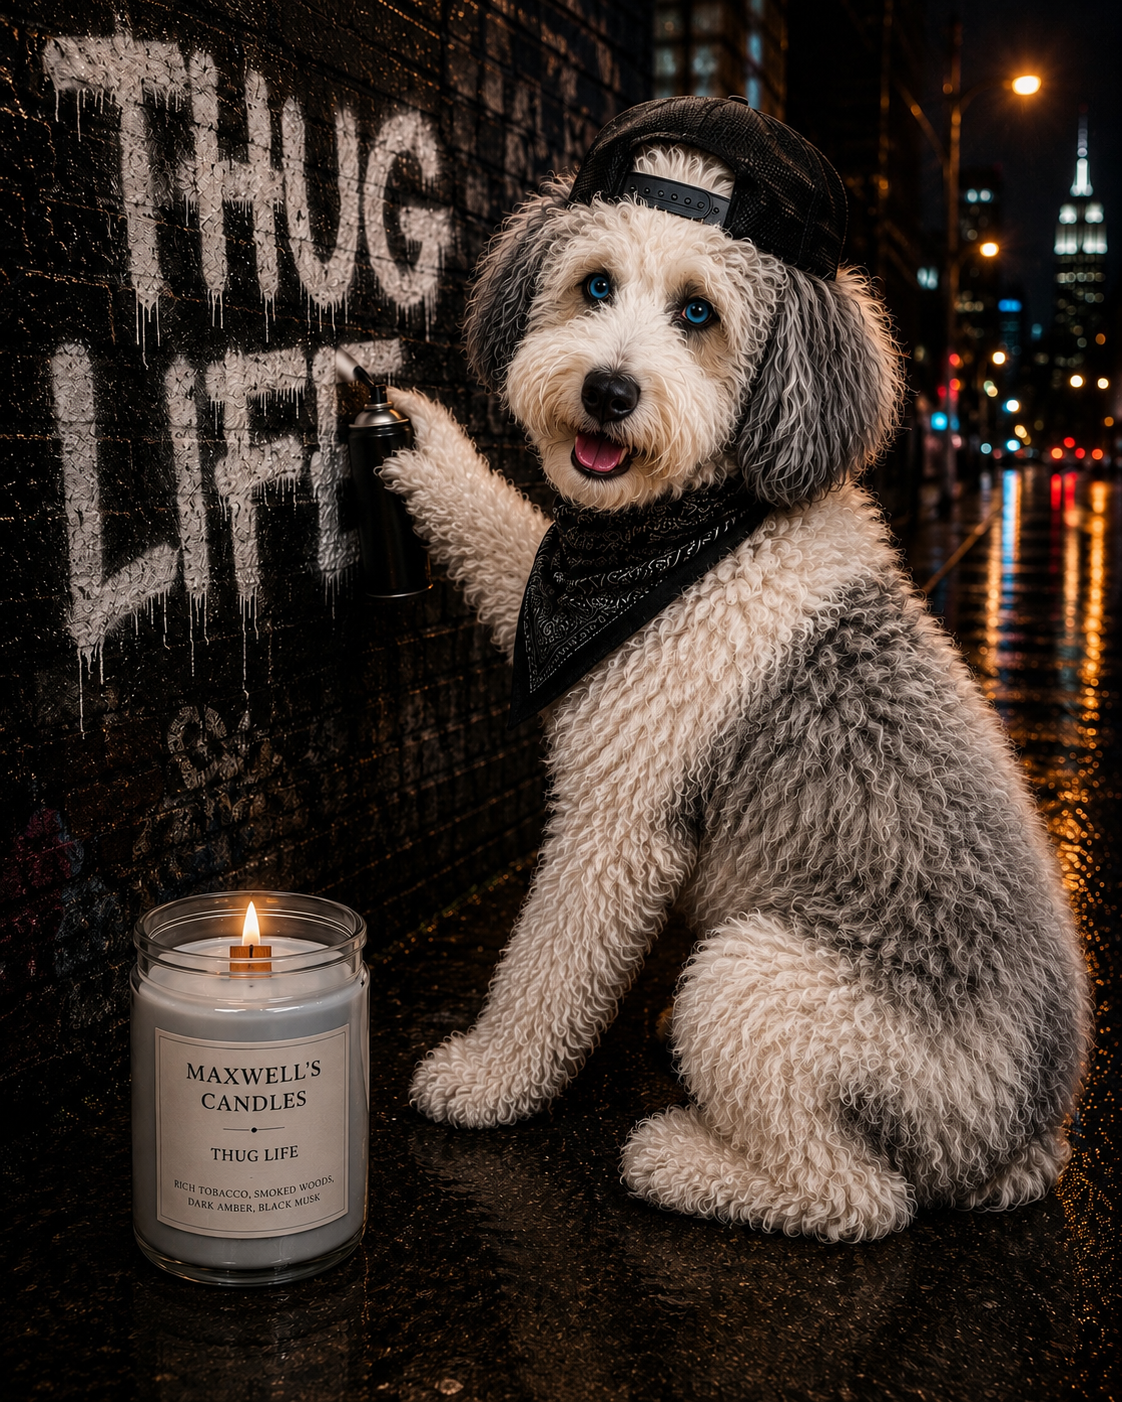
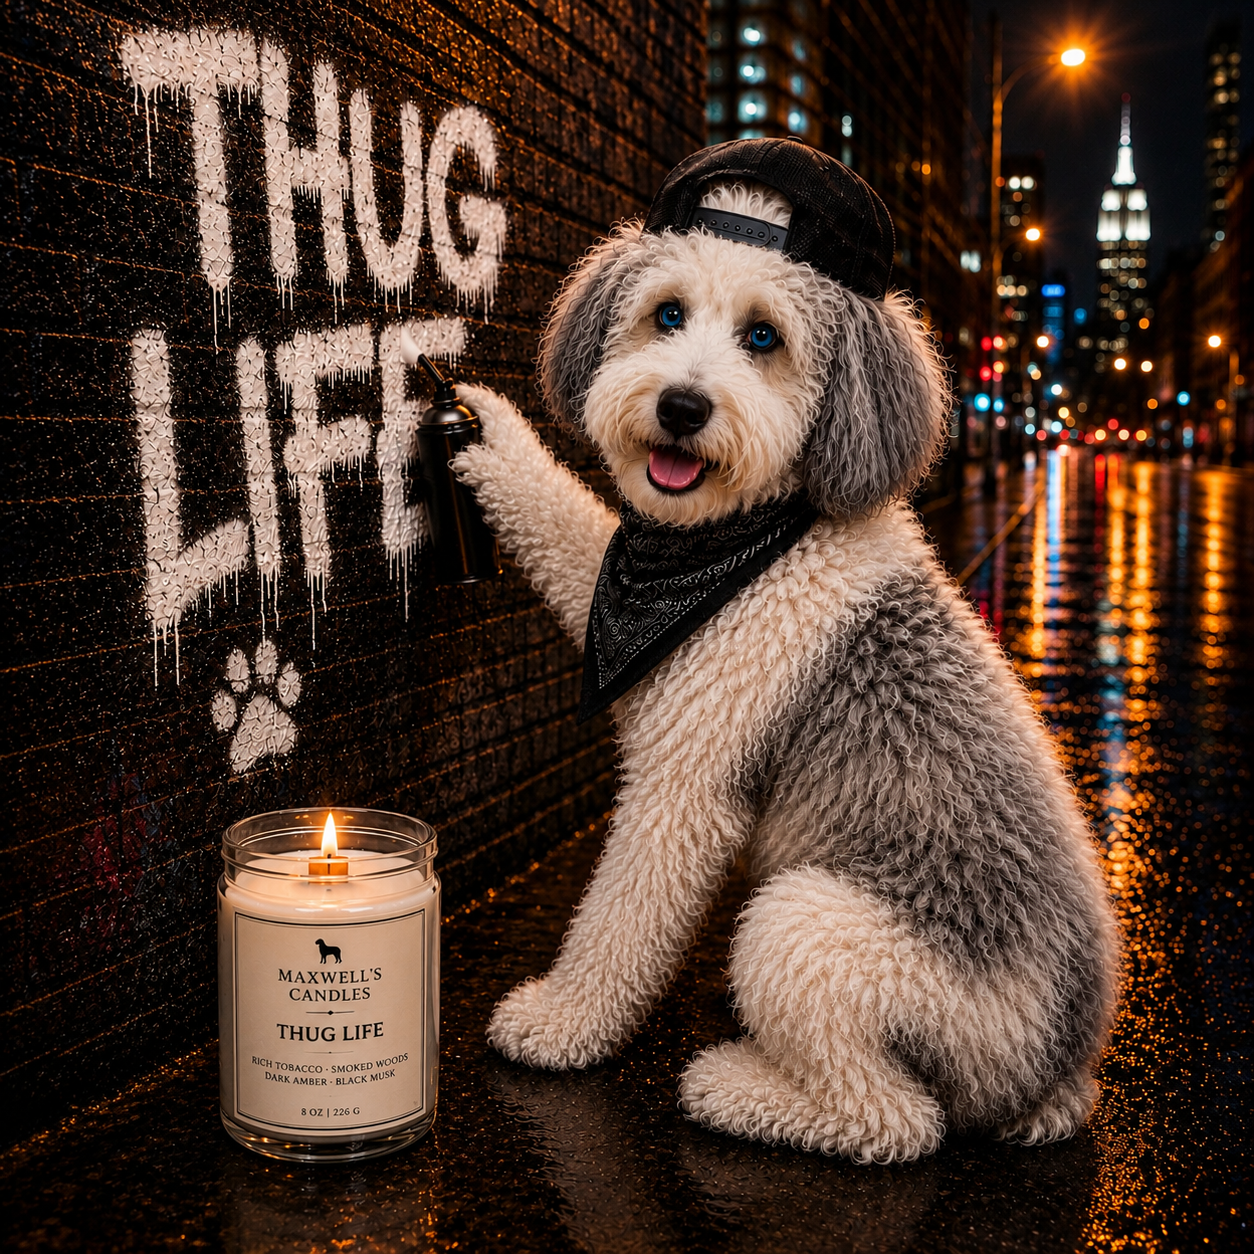
Swap images for 12 scents

diff --git a/index.html b/index.html
@@ -912,7 +912,7 @@ function toggleMusic() {
             <!-- BAIES & Switch -->
             <div class="product-card fade-up" data-scent="BAIES &amp; Switch">
                 <div class="product-img">
-                    <img loading="lazy" src="Scents/BAIESandSwitch.PNG" alt="Maxwell with BAIES &amp; Switch">
+                    <img loading="lazy" src="Scents/BAIESSwitch.png" alt="Maxwell with BAIES &amp; Switch">
                 </div>
                 <div class="product-body">
                     <span class="product-tag" style="background: var(--tag-fresh);">Fresh &amp; Floral</span>
@@ -940,7 +940,7 @@ function toggleMusic() {
             <!-- 2. Banana Nut Bread -->
             <div class="product-card fade-up" data-scent="Banana Nut Bread">
                 <div class="product-img">
-                    <img loading="lazy" src="Scents/Banana Nut Bread.PNG" alt="Maxwell with Banana Nut Bread">
+                    <img loading="lazy" src="Scents/BananaNutBread.png" alt="Maxwell with Banana Nut Bread">
 
                 </div>
                 <div class="product-body">
@@ -995,7 +995,7 @@ function toggleMusic() {
             <!-- Bergamot Element -->
             <div class="product-card fade-up" data-scent="Bergamot Element">
                 <div class="product-img">
-                    <img loading="lazy" src="Scents/Bergamot_Element.PNG" alt="Maxwell with Bergamot Element">
+                    <img loading="lazy" src="Scents/BergamotElement.PNG" alt="Maxwell with Bergamot Element">
                 </div>
                 <div class="product-body">
                     <span class="product-tag" style="background: var(--tag-fresh);">Fresh &amp; Clean</span>
@@ -1118,7 +1118,7 @@ function toggleMusic() {
             <!-- Cotton Criminal -->
             <div class="product-card fade-up" data-scent="Cotton Criminal">
                 <div class="product-img">
-                    <img loading="lazy" src="Scents/Cotton_Criminal.PNG" alt="Maxwell with Cotton Criminal">
+                    <img loading="lazy" src="Scents/CottonCrimimals.PNG" alt="Maxwell with Cotton Criminal">
                 </div>
                 <div class="product-body">
                     <span class="product-tag" style="background: var(--tag-fresh);">Fresh &amp; Clean</span>
@@ -1173,7 +1173,7 @@ function toggleMusic() {
             <!-- Eucalyptus Extortion -->
             <div class="product-card fade-up" data-scent="Eucalyptus Extortion">
                 <div class="product-img">
-                    <img loading="lazy" src="Scents/EucalayptusExtortion.PNG" alt="Maxwell with Eucalyptus Extortion">
+                    <img loading="lazy" src="Scents/EucalayptusExtortions.png" alt="Maxwell with Eucalyptus Extortion">
                 </div>
                 <div class="product-body">
                     <span class="product-tag" style="background: var(--tag-fresh);">Fresh &amp; Clean</span>
@@ -1271,7 +1271,7 @@ function toggleMusic() {
             <!-- Lime Basil & Mandarin -->
             <div class="product-card fade-up" data-scent="Lime Basil &amp; Mandarin">
                 <div class="product-img">
-                    <img loading="lazy" src="Scents/MANDO.PNG" alt="Maxwell with Lime Basil & Mandarin" style="object-position: top;">
+                    <img loading="lazy" src="Scents/LimeBasilMandalorian.png" alt="Maxwell with Lime Basil & Mandarin" style="object-position: top;">
                 </div>
                 <div class="product-body">
                     <span class="product-tag" style="background: var(--tag-fresh);">Fresh &amp; Citrus</span>
@@ -1436,7 +1436,7 @@ function toggleMusic() {
             <!-- Pumpkin Chai -->
             <div class="product-card fade-up" data-scent="Pumpkin Chai">
                 <div class="product-img">
-                    <img loading="lazy" src="Scents/PumpkinChai.PNG" alt="Maxwell with Pumpkin Chai">
+                    <img loading="lazy" src="Scents/Pumpkin_Chai.PNG" alt="Maxwell with Pumpkin Chai">
                 </div>
                 <div class="product-body">
                     <span class="product-tag" style="background: var(--tag-spicy);">Warm &amp; Spicy</span>
@@ -1517,7 +1517,7 @@ function toggleMusic() {
             <!-- 22. Straight Outta Hoboken -->
             <div class="product-card fade-up" data-scent="Straight Outta Hoboken">
                 <div class="product-img">
-                    <img loading="lazy" src="Scents/HBKN.PNG" alt="Maxwell with Straight Outta Hoboken">
+                    <img loading="lazy" src="Scents/StraightOuttaHoboken.png" alt="Maxwell with Straight Outta Hoboken">
                 </div>
                 <div class="product-body">
                     <span class="product-tag" style="background: var(--tag-deep);">Warm &amp; Gourmand</span>
@@ -1531,7 +1531,7 @@ function toggleMusic() {
             <!-- 23. Sweet Strawberry -->
             <div class="product-card fade-up" data-scent="Sweet Strawberry">
                 <div class="product-img">
-                    <img loading="lazy" src="Scents/Sweet Strawberry.PNG" alt="Maxwell with Sweet Strawberry">
+                    <img loading="lazy" src="Scents/SweetStrawberry.png" alt="Maxwell with Sweet Strawberry">
                 </div>
                 <div class="product-body">
                     <span class="product-tag" style="background: var(--tag-sweet);">Sweet &amp; Fruity</span>
@@ -1544,7 +1544,7 @@ function toggleMusic() {
             <!-- 24. Thug Life -->
             <div class="product-card fade-up" data-scent="Thug Life">
                 <div class="product-img">
-                    <img loading="lazy" src="Scents/Thug-Life.PNG" alt="Maxwell with Thug Life">
+                    <img loading="lazy" src="Scents/ThugLife.PNG" alt="Maxwell with Thug Life">
                 </div>
                 <div class="product-body">
                     <span class="product-tag" style="background: var(--tag-woody);">Woody &amp; Smoky</span>
@@ -1571,7 +1571,7 @@ function toggleMusic() {
             <!-- Vanilla Vice -->
             <div class="product-card fade-up" data-scent="Vanilla Vice">
                 <div class="product-img">
-                    <img loading="lazy" src="Scents/VanillaVice.PNG" alt="Maxwell with Vanilla Vice">
+                    <img loading="lazy" src="Scents/Vanilla_Vice.png" alt="Maxwell with Vanilla Vice">
                 </div>
                 <div class="product-body">
                     <span class="product-tag" style="background: var(--tag-sweet);">Warm &amp; Sweet</span>
@@ -1585,7 +1585,7 @@ function toggleMusic() {
             <!-- Walter White Oak & Vanilla -->
             <div class="product-card fade-up" data-scent="Walter White Oak &amp; Vanilla">
                 <div class="product-img">
-                    <img loading="lazy" src="Scents/WalterWhite.PNG" alt="Maxwell with Walter White Oak and Vanilla">
+                    <img loading="lazy" src="Scents/WalterWhiteVanilla.PNG" alt="Maxwell with Walter White Oak and Vanilla">
                 </div>
                 <div class="product-body">
                     <span class="product-tag" style="background: var(--tag-soph);">Warm &amp; Luxurious</span>
